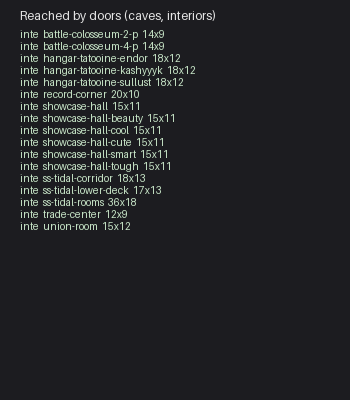
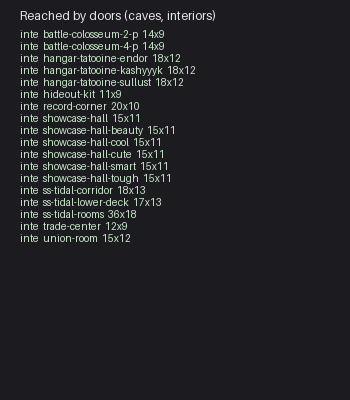
World blockout: coverage audit; add Mirage Isle and the hideout kit
Every vanilla map, every location in locations.csv and every net-new area now
has an area file. The two gaps were places that are not their own vanilla map:
Mirage Isle (Route 130's alternate layout) and the hideouts (vanilla's 28
secret base templates, one shared kit). 528 areas, all reachable from Mos Pelgo.

Changed region(s): [[0.0571, 0.21, 0.4857, 0.63]]

diff --git a/tools/blockout/drafts/extras.py b/tools/blockout/drafts/extras.py
@@ -1,0 +1,34 @@
+import os; exec(open(os.path.join(os.path.dirname(os.path.abspath(__file__)), "common.py")).read())
+# Places in wiki/mapping/locations.csv that are not their own vanilla map, found by the coverage audit.
+
+# Mirage Isle: vanilla swaps Route 130 to an alternate layout on the days the island shows.
+rows, _ = V.terrain_grid("Route130", layout="LAYOUT_ROUTE130_MIRAGE_ISLAND")
+d = Draft.new("mirage-isle", "MIRAGE ISLE", "DAGOBAH", len(rows[0]), len(rows), kind="landmark",
+              replaces="Route130")
+d.g = [list(r) for r in rows]
+d.doc["story"] = ("Route 130 on the days Mirage Isle rises out of the far bog: a misty islet with a rare berry tree "
+                  "and companions found nowhere else.")
+d.doc["travel"] = [{"to": "route-130", "via": "mirage", "name": "The isle sinks again (same route, normal layout)"}]
+d.doc["todo"] = ["Alternate layout of Route 130, not its own map: the game picks it with IsMirageIslandPresent.",
+                 "Shown without exits so it does not overlap Route 130 on the planet sheet."]
+place_near(d, "Mirage Isle berry tree", "art:dagobah:gnarltree", 1, 1, (len(rows[0]) // 2, len(rows) // 2), radius=40)
+d.save()
+dd = Draft.load("route-130")
+dd.doc["travel"] = [t for t in dd.doc.get("travel") or [] if t["to"] != "mirage-isle"] + \
+    [{"to": "mirage-isle", "via": "mirage", "name": "Mirage Isle rises (some days)"}]
+dd.save(render=False)
+
+# Hideouts (vanilla secret bases): 28 template rooms the player furnishes; one shared kit stands for them.
+d = Draft.new("hideout-kit", "HIDEOUT (KIT)", "SHARED", 11, 9, kind="interior", replaces="new",
+              fill="|", folder="interiors")
+d.fill(1, 2, 9, 7, "_"); d.set(5, 8, "_"); d.warp("Entrance (back to the route)", 5, 8, "MAP_DYNAMIC")
+d.prop("Hideout PC", "art:new:hideout-pc", 5, 2, 1, 1)
+d.doc["story"] = ("A player hideout: a hollow, tree or bush on a route that the player claims and furnishes "
+                  "(vanilla secret base). Decorations come from the Supply Depots.")
+d.doc["todo"] = ["Stands for all 28 vanilla secret base templates (4 sizes each of red, brown, blue and yellow caves, trees and shrubs).",
+                 "Per-planet hideout spots (Tatooine rock hollows, Endor tree hollows, Hoth ice caves) are picked in the art phase."]
+d.save()
+dd = Draft.load("route-102")
+dd.doc["travel"] = [t for t in dd.doc.get("travel") or [] if t["to"] != "hideout-kit"] + \
+    [{"to": "hideout-kit", "via": "hideout", "name": "Any hideout spot on a route (first one the player can claim)"}]
+dd.save(render=False)

diff --git a/tools/blockout/blockout/vanilla.py b/tools/blockout/blockout/vanilla.py
@@ -39,11 +39,11 @@ def map_json(map_name):
     return json.loads((GAME / "data/maps" / map_name / "map.json").read_text())
 
 
-def terrain_grid(map_name):
-    """Rows of terrain chars for a vanilla map."""
+def terrain_grid(map_name, layout=None):
+    """Rows of terrain chars for a vanilla map (or one of its alternate layouts, by layout id)."""
     gba = _gba()
     mj = map_json(map_name)
-    lay = gba.layouts()[mj["layout"]]
+    lay = gba.layouts()[layout or mj["layout"]]
     raw = lay.cells()
     mb = behaviours()
     inv = {v: k for k, v in mb.items()}

diff --git a/wiki/world/GUIDE.md b/wiki/world/GUIDE.md
@@ -2,9 +2,9 @@
 
 Generated by `python3 -m blockout guide` from the area files; do not edit by hand.
 
-Connections: [CONNECTIONS.csv](CONNECTIONS.csv) has 1568 links (exits, doors, warps) plus a StarNAV flight row for each of the 19 ship rooms; 133 links have no way straight back (ledges, holes, one-way warps, or a back door still missing). From Mos Pelgo, 526 of 526 areas can be reached.
+Connections: [CONNECTIONS.csv](CONNECTIONS.csv) has 1572 links (exits, doors, warps) plus a StarNAV flight row for each of the 19 ship rooms; 135 links have no way straight back (ledges, holes, one-way warps, or a back door still missing). From Mos Pelgo, 528 of 528 areas can be reached.
 
-526 areas: 0 TODO, 526 BLOCKOUT, 0 APPROVED.
+528 areas: 0 TODO, 528 BLOCKOUT, 0 APPROVED.
 Each planet is its own map; ships link them. Ship rooms use the StarNAV console to pick a planet.
 
 ## Tatooine
@@ -163,11 +163,12 @@ Caves: wampa-cave-high-tide-entrance-room, wampa-cave-high-tide-inner-room, wamp
 
 ## Dagobah
 
-Overview: [dagobah/_planet.png](dagobah/_planet.png). 6 overworld areas, 22 cave rooms, 16 interiors.
+Overview: [dagobah/_planet.png](dagobah/_planet.png). 7 overworld areas, 22 cave rooms, 16 interiors.
 
 | Area | Kind | Built from | Connects to | What it is |
 |---|---|---|---|---|
 | [DAGOBAH](dagobah/dagobah.yaml) | town | SootopolisCity | route-126 | Dagobah's hidden swamp hollow: Yoda's hut is the arena, the Cave of Evil (a Force vergence) opens in the north-west, and a bog lagoon fills the middle. Ships set down on the south-east bog landing; a surf channel runs south to the swamp routes, and divers can still surface in the lagoon from Route 126. |
+| [MIRAGE ISLE](dagobah/mirage-isle.yaml) | landmark | Route130 | (doors only) | Route 130 on the days Mirage Isle rises out of the far bog: a misty islet with a rare berry tree and companions found nowhere else. |
 | [ROUTE 126](dagobah/route-126.yaml) | route | Route126 | dagobah, route-127 | Bog lakes round Dagobah's hollow. Deep water to dive into (the hollow's lagoon also surfaces here) and swamp islets with GNATLING. |
 | [ROUTE 127](dagobah/route-127.yaml) | route | Route127 | route-126, route-128 | Misty swamp channels east of the hollow; SWAMPSLUG wallow on the islets. |
 | [ROUTE 128](dagobah/route-128.yaml) | route | Route128 | route-127, route-129 | Deep swamp south of the hollow where the Drowned Cavern's dive spot lies; SANDO sleeps below. |
@@ -304,7 +305,7 @@ Caves: death-star-ds-1, death-star-ds-2, death-star-ds-3, death-star-ds-4, death
 
 ## Shared
 
-Overview: [shared/_planet.png](shared/_planet.png). 0 overworld areas, 0 cave rooms, 17 interiors.
+Overview: [shared/_planet.png](shared/_planet.png). 0 overworld areas, 0 cave rooms, 18 interiors.
 
-New areas (not in vanilla): Millennium Falcon cabin, Rebel shuttle cabin, Sullustan transport cabin.
+New areas (not in vanilla): HIDEOUT (KIT), Millennium Falcon cabin, Rebel shuttle cabin, Sullustan transport cabin.
 

diff --git a/HANDOFF.md b/HANDOFF.md
@@ -41,7 +41,7 @@ Spire and the Death Star site. PokéNAV is called **StarNAV**; use that name in 
 The owner split the remaining work into phases on 2026-11-02.
 
 1. **World blockout: DONE, waiting for the owner's review.**
-   - Every area on every planet is laid out in grey placeholder tiles with pink people and signs. That is 526 areas, all `BLOCKOUT`, none `APPROVED`.
+   - Every area on every planet is laid out in grey placeholder tiles with pink people and signs. That is 528 areas, all `BLOCKOUT`, none `APPROVED`. A coverage audit (2026-11-02) matched every vanilla map, every location in `wiki/mapping/locations.csv` and every net-new area to an area file.
    - Buildings are sized.
    - Every piece is listed as a TODO in `INDEX.csv`.
 2. **Dumb shapes and colours: NEXT.** Flat coloured stand-ins for each building and prop, so each area reads as a place.

diff --git a/tools/blockout/drafts/README.md b/tools/blockout/drafts/README.md
@@ -20,6 +20,7 @@ Run from anywhere, in this order (later scripts fix links that earlier ones cut)
 | 7 | `interiors.py` | New rooms, then kit notes on every vanilla interior still `TODO` |
 | 8 | `deathstar.py` | Death Star construction site (post-game, net:death-star-site) |
 | 9 | `links.py` | `travel:` links (ships, shuttles, tides, dives, scripted moves) and graph fixes |
+| 10 | `extras.py` | Places that are not their own vanilla map: Mirage Isle (Route 130 alternate layout), the hideout kit (secret bases) |
 
 Then, from `tools/blockout/`: `python3 -m blockout layout <PLANET>` for each planet (not FELUCIA: its six
 zones keep vanilla's positions), and `python3 -m blockout world`, `index`, `guide`, `check`.
